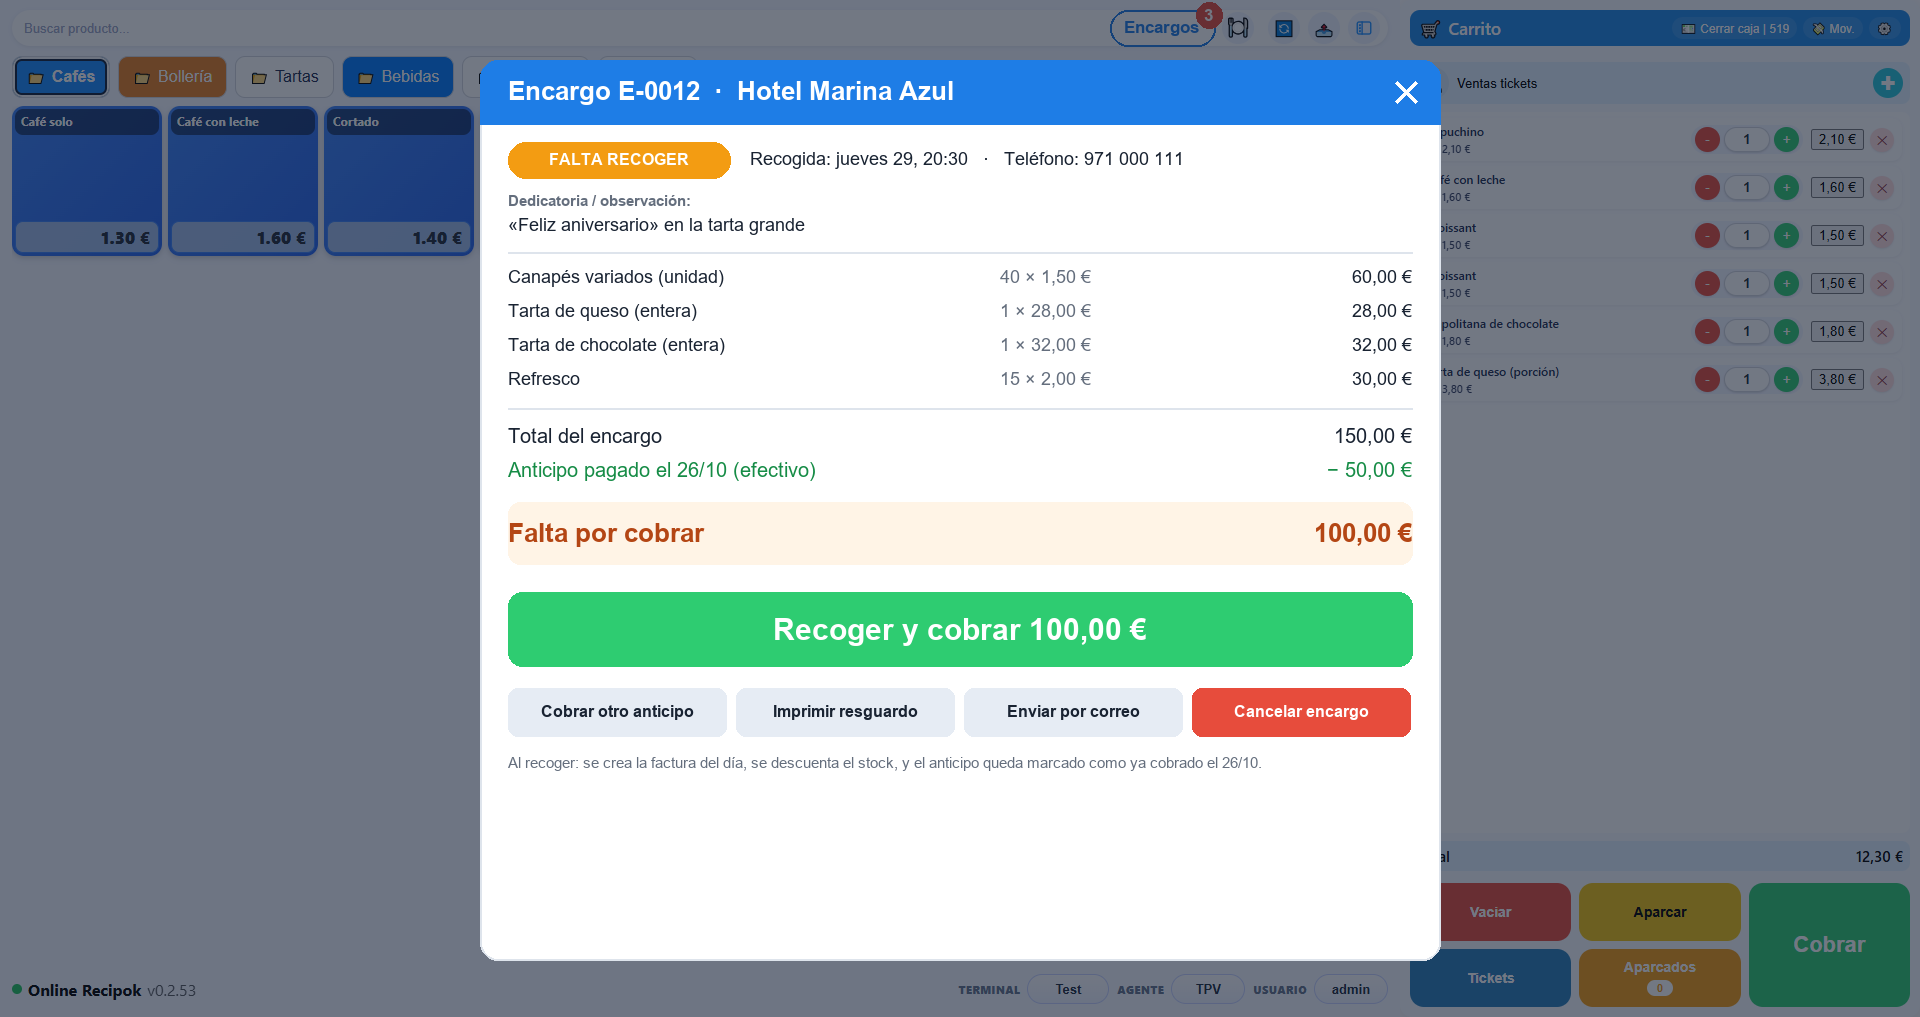
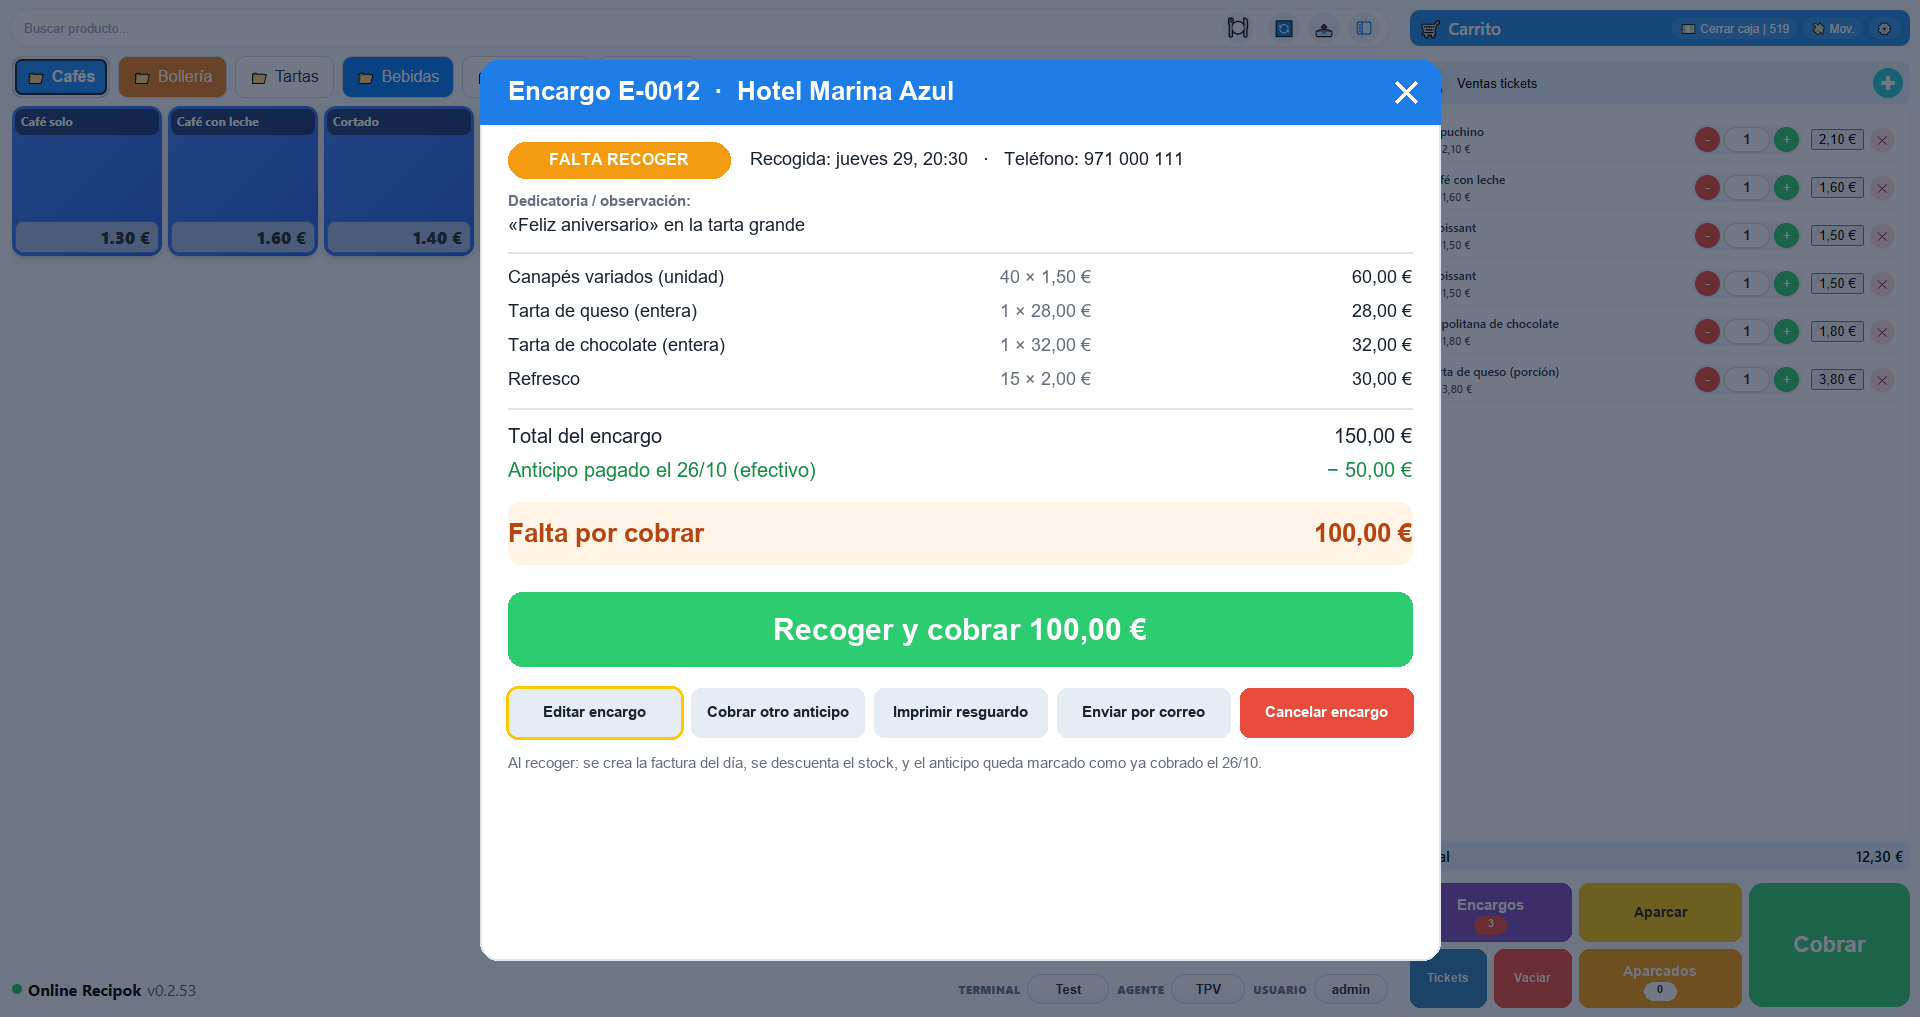
Encargos: maquetas de los pasos con la botonera elegida
Encargos grande arriba a la izquierda y Vaciar pequeno junto a Tickets, en
lugar del boton en la barra de busqueda. El detalle del encargo gana el boton
Editar encargo y el justificante de anticipo aclara que no es una factura.

Changed region(s): [[0.2812, 0.6706, 0.7188, 0.7316], [0.75, 0.8535, 0.875, 1.0], [0.5938, 0.0, 0.6562, 0.061]]

diff --git a/docs/diseno-pedidos-con-pago-a-cuenta.md b/docs/diseno-pedidos-con-pago-a-cuenta.md
@@ -36,7 +36,7 @@ Fecha: 2026-10-29 (actualizado el mismo día con las pantallas y, por la noche, 
 ## 3b. Cómo se vería (maquetas con datos de ejemplo, dibujadas sobre la pantalla real)
 
 **Dos botones nuevos, visibles solo si el cliente ha activado Encargos** (apartado 3c):
-- **«Encargos»**, con un número que cuenta los encargos de **hoy y los vencidos** (rojo si hay algún vencido). Abre la lista: ver, recoger, cobrar otro anticipo, cancelar e imprimir la lista del día. **Ubicación (decidida por el jefe, 30-oct):** zona de botones de abajo a la derecha, con el reparto de la opción 2 pero **intercambiando Vaciar y Encargos**: «Encargos» ocupa el sitio grande de arriba a la izquierda (donde estaba Vaciar), y «Vaciar» pasa al hueco pequeño de abajo, junto a Tickets. Aparcar, Aparcados y Cobrar no cambian. Maqueta: `mock-encargos-botones-elegida.png`. *(Las maquetas de los pasos todavía dibujan el botón en la barra de búsqueda; se redibujarán.)*
+- **«Encargos»**, con un número que cuenta los encargos de **hoy y los vencidos** (rojo si hay algún vencido). Abre la lista: ver, recoger, cobrar otro anticipo, cancelar e imprimir la lista del día. **Ubicación (decidida por el jefe, 30-oct):** zona de botones de abajo a la derecha, con el reparto de la opción 2 pero **intercambiando Vaciar y Encargos**: «Encargos» ocupa el sitio grande de arriba a la izquierda (donde estaba Vaciar), y «Vaciar» pasa al hueco pequeño de abajo, junto a Tickets. Aparcar, Aparcados y Cobrar no cambian. Maqueta: `mock-encargos-botones-elegida.png`. Las maquetas de los pasos ya llevan esta distribución.
 - **«Pasar a encargo»**, en la cabecera del carrito junto a «Mov.» (desactivado con el carrito vacío). Convierte el carrito en un encargo en un solo toque. Abrir el formulario no hace nada irreversible: se cierra con Cancelar.
 
 Decisiones tomadas al diseñar las pantallas:
@@ -190,6 +190,6 @@ Tamaños aproximados: S ≈ medio día, M ≈ 1-2 días, L ≈ 2-3 días de trab
 - Recoger: reutilizar `processConfirmedSale` (fase 2) cambiando solo el paso de crear la factura por «pasar el pedido a Facturar + localizar la factura por `numero2` + completar campos del TPV (`idcaja`, `idtpv`, `tpv_venta`, `codagente`…)». El pago repartido (anticipo + resto) ya se representa con varios recibos (`createReciboCliente`, `cleanupRecibosFactura`).
 - Impresión: nuevas plantillas `*_print.html` clonando `printCashCloseReport`. Correo: `renderInvoicePdf` + `apiSendInvoiceEmail`.
 - Nombre: en el código ya existe un tipo `docType: "pedido"` en los aparcados (estados `pendiente`/`pagado-no-recogido`/`recogido`), **sin ningún botón que lo cree**. Para no mezclarlo, el módulo nuevo se llamará internamente `customerOrders` y en pantalla «Encargos» (en Modo Mesas el botón de aparcados ya se llama «Pedidos»).
-- Botones nuevos: «Encargos» se crea por código junto a los de la barra de búsqueda (`renderMainAgentBar`, como `createTablesBtn`), y «Pasar a encargo» va en la cabecera del carrito; los dos visibles solo con la opción activada. La ventana de la lista sigue el patrón de las demás (`simple-overlay` > `parked-modal`); el asistente de dos páginas (datos y anticipo) y el detalle de recoger son modales aparte. La lista y el contador se refrescan con el tema de tiempo real `customer-orders`.
+- Botones nuevos: «Encargos» va en la botonera inferior (`#cartActionGrid` de `index.html`, con sus reglas en `styles.css`; hoy la rejilla es Vaciar/Tickets, Aparcar/Aparcados y Cobrar a dos filas). Con la opción activada, la rejilla pasa a la distribución elegida (Encargos arriba a la izquierda, Vaciar pequeño junto a Tickets), con una clase en `#cartActionGrid` para que apagada no cambie nada (ojo: en Modo Mesas «Aparcados» se llama «Pedidos» y hay un botón `#preprintTicketBtn` que a veces se oculta, hay que probar las dos combinaciones). «Pasar a encargo» va en la cabecera del carrito; los dos visibles solo con la opción activada. La ventana de la lista sigue el patrón de las demás (`simple-overlay` > `parked-modal`); el asistente de dos páginas (datos y anticipo) y el detalle de recoger son modales aparte. La lista y el contador se refrescan con el tema de tiempo real `customer-orders`.
 - Crear + anticipo, una sola acción de servidor (atómica y repetible con un código único): `create-customer-order` con el anticipo dentro. Mismo patrón de acciones con `SELECT … FOR UPDATE` que el guardado de aparcados.
 - Un hallazgo menor: `createReciboCliente` lee `fechaPago` (con P mayúscula) mientras que los llamadores pasan `fechapago`, así que la fecha de pago nunca llega a FacturaScripts. Para los anticipos (recibo con la fecha del día 11) hay que corregirlo.
